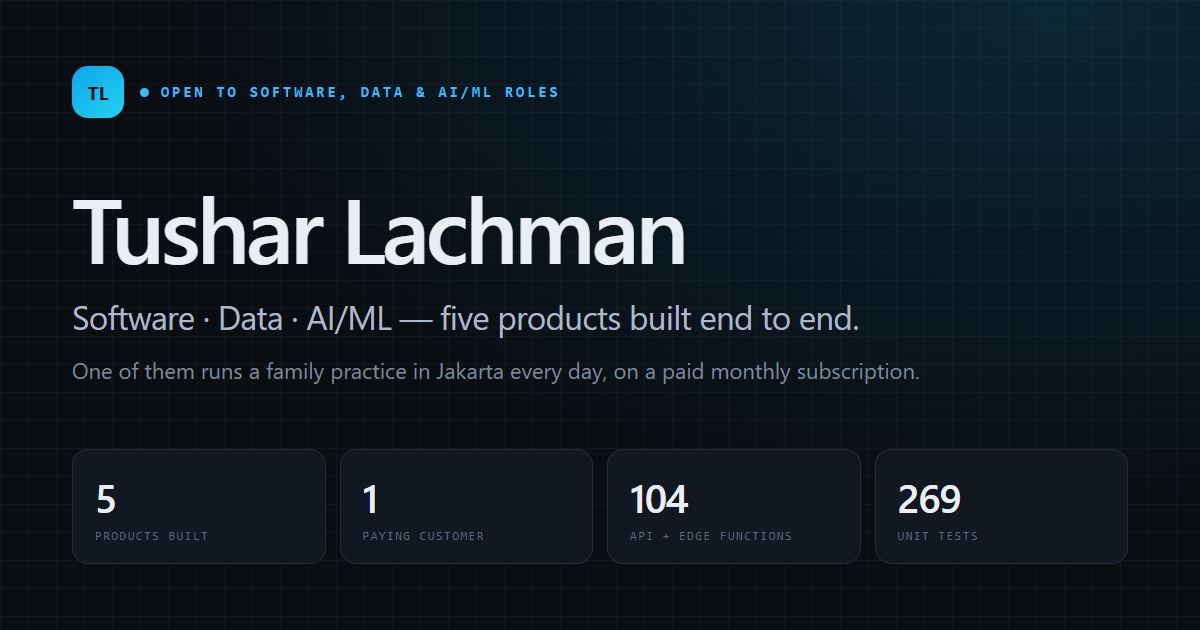
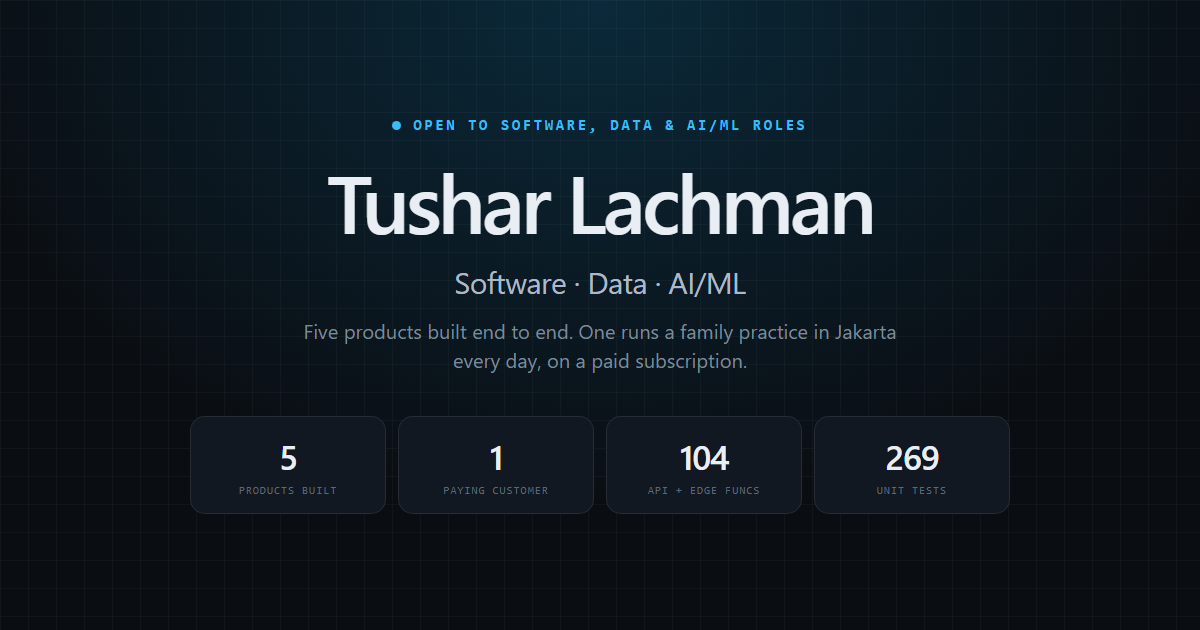
Recompose the share card so WhatsApp's square crop doesn't cut the name in half
WhatsApp renders a link preview as a small centre-cropped square, not as the
1200x630 the card was designed at. The name was left-aligned and started at the
left margin, so the crop began 285px in and the preview read "r Lachman".

The composition is centred now: the availability line, the name, the discipline
line and the one-sentence claim all sit inside the middle 630x630, so the square
crop carries the whole message and the wide version still reads as before. Two
of the four stat tiles survive the crop, which is enough to suggest the rest.

The image URL carries a version query because WhatsApp and LinkedIn cache
previews against the URL and would otherwise keep serving the old card to
anyone already sent the link.

Checked by cropping the rendered card to the centre square and viewing it at
200px, the size the thumbnail actually renders at; the name is still legible.

diff --git a/src/app/layout.tsx b/src/app/layout.tsx
@@ -32,9 +32,18 @@ const DESCRIPTION =
 
 /** One 1200×630 card for every page that doesn't set its own. Without it a
  * pasted link renders as a bare grey box in LinkedIn, Slack and mail clients —
- * which is most of the places this link actually gets shared. */
+ * which is most of the places this link actually gets shared.
+ *
+ * The card is composed centred rather than left-aligned: WhatsApp shows a link
+ * preview as a small centre-cropped square, so a left-aligned name loses its
+ * first half. Everything that has to survive sits inside the middle 630×630.
+ *
+ * The `?v=` is a cache-buster. WhatsApp and LinkedIn key their preview cache on
+ * the image URL and hold it for a long time, so a redesign at the same path
+ * keeps showing the old card to anyone who has already been sent the link.
+ * Bump it whenever the card changes. */
 const OG_IMAGE = {
-  url: "/og.png",
+  url: "/og.png?v=2",
   width: 1200,
   height: 630,
   alt: "Tushar Lachman — software, data and AI/ML. Five products built end to end.",
